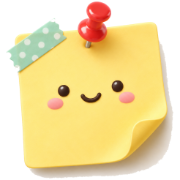
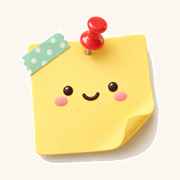
Deploy site to Cloudflare Pages; serve downloads from the website
- .github/workflows/site.yml: build site/ and deploy to Cloudflare Pages on push to main,
  on release publish, or manually. Each deploy copies the latest published release's exe
  into /download/ and points feed.json (version, url, sha256) at it, since the repo is private
- site-config downloadUrl comes from VITE_DOWNLOAD_URL (empty = coming soon)
- apple-touch-icon.png gets an opaque background (iOS turns transparency black)
- RELEASING.md describes the new flow and the one-time Cloudflare setup
- READMEs: download from the website

diff --git a/site/src/lib/site-config.ts b/site/src/lib/site-config.ts
@@ -16,8 +16,12 @@ export const siteConfig = {
   /** Custom work enquiries */
   contactEmail: "ailazytech@gmail.com",
 
-  /** TODO: GitHub Releases download URL (e.g. https://github.com/…/releases/latest) */
-  downloadUrl: "",
+  /**
+   * Download link for the latest pinpin.exe. Filled in at build time by .github/workflows/site.yml,
+   * which copies the latest published release into public/download/ (the repo is private, so
+   * GitHub release assets aren't publicly downloadable). Empty = the button shows “coming soon”.
+   */
+  downloadUrl: (import.meta.env.VITE_DOWNLOAD_URL as string | undefined) ?? "",
 
   /** TODO: source repository URL */
   githubUrl: "",

diff --git a/docs/RELEASING.md b/docs/RELEASING.md
@@ -43,25 +43,40 @@
    - `PinPin-Notes-0.2.0-x64.exe`
    - `PinPin-Notes-0.2.0-x64.exe.sha256`
 
-   打開草稿，把 `CHANGELOG.md` 這一版的內容貼進說明，確認後發佈。
-6. **線上更新**：把版本、執行檔網址、SHA-256（workflow 的 Summary 有）填進 `site/public/feed.json` 的 `app`；重要的修正設 `critical: true`。網站部署之後，開著自動檢查的使用者會在系統匣看到「更新到 vX」（格式和規則見 [UPDATES.md](UPDATES.md)）
-7. **官網**
-   - `site/src/lib/site-config.ts` 的 `downloadUrl` 指到最新版（可以用 `https://github.com/OWNER/pinpin-notes/releases/latest`，之後就不用每次改）
-   - 有新功能的話更新功能介紹、截圖（`promo/remotion` 的 `npm run screens`）、問答
-   - `cd site; vp build`，把 `site/dist/` 部署到 Pages
+   打開草稿，把 `CHANGELOG.md` 這一版的內容貼進說明。重要的修正要讓使用者自動更新的話，先在 `site/public/feed.json` 把 `app.critical` 設成 `true` 並推上 main。
+6. **發佈**：按下草稿的「Publish release」。這會觸發 `.github/workflows/site.yml`，自動：
+   - 把這版的 exe 放上官網：`https://pinpin.aiverything.app/download/PinPin-Notes-x64.exe`（下載按鈕）和 `…/download/PinPin-Notes-0.2.0-x64.exe`（線上更新用）
+   - 把 `feed.json` 的 `app.version`、`url`、`sha256` 換成這一版（`notes`、`critical`、廣告、貼紙包照 repo 裡的）
+   - 編譯網站、部署到 Cloudflare Pages
 
-## 官網部署
+   部署完，開著自動檢查的使用者會在系統匣看到「更新到 vX」（規則見 [UPDATES.md](UPDATES.md)）
+7. **官網內容**：有新功能的話更新功能介紹、截圖（`promo/remotion` 的 `npm run screens`）、問答，推上 main 就會自動部署
 
-`site/` 是純靜態網站：`vite.config.ts` 用相對路徑（`base: "./"`）、hash 路由（`#/custom`），所以 `site/dist/` 放在任何靜態主機的任何子路徑都能用，不需要伺服器改寫規則。
+## 官網部署（Cloudflare Pages）
+
+`site/` 是純靜態網站：`vite.config.ts` 用相對路徑（`base: "./"`）、hash 路由（`#/custom`），不需要伺服器改寫規則。網址 `https://pinpin.aiverything.app`（也寫在 `src/base.rs` 的 `SITE_URL`、`site-config.ts`、`index.html`）。
+
+`.github/workflows/site.yml` 在這些時候部署：推到 main 且改了 `site/`、Release 發佈、在 Actions 頁手動執行。每次部署都會把**最新已發佈 Release** 的 exe 放進 `site/public/download/`（repo 是私人的，GitHub Release 的檔案外人下載不到，所以由官網提供下載）。還沒有任何 Release 時，下載按鈕顯示「準備中」。
+
+第一次設定：
+
+1. Cloudflare → My Profile → API Tokens → Create Token，權限 **Account → Cloudflare Pages → Edit**
+2. GitHub repo → Settings → Secrets and variables → Actions，新增
+   - `CLOUDFLARE_API_TOKEN`：上一步的 token
+   - `CLOUDFLARE_ACCOUNT_ID`：Cloudflare 首頁右側的 Account ID
+3. 在 Actions 頁手動跑一次 **Site**（第一次會自動建立 Pages 專案 `pinpin-notes`）
+4. Cloudflare → Workers & Pages → pinpin-notes → Custom domains → 加 `pinpin.aiverything.app`（`aiverything.app` 的 DNS 在 Cloudflare 上會自動設好 CNAME）
+
+本機預覽：
 
 ```powershell
 cd site
-vp install
-vp build      # 輸出到 site/dist/
-vp preview    # 本機預覽
+pnpm install
+pnpm run build    # 輸出到 site/dist/（npm 會因 packageManager 設定報錯，要用 pnpm）
+pnpm exec vp preview
 ```
 
-部署：把 `site/dist/` 整個資料夾上傳到 Pages（GitHub Pages、Cloudflare Pages、Firebase Hosting 等都可以）。
+圖示：`public/` 的 `favicon.ico`（16～256 多尺寸）、`favicon-32.png`、`icon-192.png`、`icon-512.png`（PWA）、`apple-touch-icon.png`（iOS 主畫面，要不透明底，用 `scripts/apple-touch-icon.ps1` 從 icon-512 產生）、`og.png`（社群分享預覽 1200×630）。
 
 ## 熱修（hotfix）
 

diff --git a/README.ja.md b/README.ja.md
@@ -13,7 +13,7 @@ Windows デスクトップの付箋アプリ。画鋲、マスキングテープ
 - 6 言語：English、繁體中文、简体中文、日本語、한국어、العربية（右から左）
 - オープンソース（MIT）、データは自分のパソコンにだけ保存
 
-🌐 公式サイト：**[pinpin.aiverything.app](https://pinpin.aiverything.app)**　📦 ダウンロード：GitHub Releases（準備中）　📝 [更新履歴](CHANGELOG.md)
+🌐 公式サイト：**[pinpin.aiverything.app](https://pinpin.aiverything.app)**　📦 ダウンロード：[公式サイト](https://pinpin.aiverything.app)（準備中）　📝 [更新履歴](CHANGELOG.md)
 
 ## 機能
 

diff --git a/README.ar.md b/README.ar.md
@@ -15,7 +15,7 @@
 - ست لغات: English و繁體中文 و简体中文 و日本語 و한국어 والعربية (من اليمين إلى اليسار)
 - مفتوح المصدر (MIT)، وبياناتك تبقى على جهازك فقط
 
-🌐 الموقع: **[pinpin.aiverything.app](https://pinpin.aiverything.app)** · 📦 التنزيل: GitHub Releases (قريبًا) · 📝 [سجل التغييرات](CHANGELOG.md)
+🌐 الموقع: **[pinpin.aiverything.app](https://pinpin.aiverything.app)** · 📦 التنزيل: [من الموقع](https://pinpin.aiverything.app) (قريبًا) · 📝 [سجل التغييرات](CHANGELOG.md)
 
 ## الميزات
 

diff --git a/README.md b/README.md
@@ -13,7 +13,7 @@ A cozy sticky-notes app for the Windows desktop — pins, washi tape, stickers, 
 - Six languages: English, 繁體中文, 简体中文, 日本語, 한국어, العربية (right-to-left)
 - Open source (MIT); your data stays on your own computer
 
-🌐 Website: **[pinpin.aiverything.app](https://pinpin.aiverything.app)** · 📦 Download: GitHub Releases (coming soon) · 📝 [Changelog](CHANGELOG.md)
+🌐 Website: **[pinpin.aiverything.app](https://pinpin.aiverything.app)** · 📦 Download: [from the website](https://pinpin.aiverything.app) (coming soon) · 📝 [Changelog](CHANGELOG.md)
 
 ## Features
 

diff --git a/README.zh-CN.md b/README.zh-CN.md
@@ -13,7 +13,7 @@ Windows 桌面便利贴：图钉、纸胶带、贴纸拖来拖去，手写、透
 - 六种语言：English、繁中、简中、日本語、한국어、العربية（从右到左）
 - 开源（MIT），数据只保存在自己的电脑上
 
-🌐 官网：**[pinpin.aiverything.app](https://pinpin.aiverything.app)**　📦 下载：GitHub Releases（准备中）　📝 [更新日志](CHANGELOG.md)
+🌐 官网：**[pinpin.aiverything.app](https://pinpin.aiverything.app)**　📦 下载：[官网](https://pinpin.aiverything.app)（准备中）　📝 [更新日志](CHANGELOG.md)
 
 ## 功能
 

diff --git a/README.zh-TW.md b/README.zh-TW.md
@@ -13,7 +13,7 @@ Windows 桌面便利貼：圖釘、紙膠帶、貼紙拖來拖去，手寫、透
 - 六種語言：English、繁中、简中、日本語、한국어、العربية（由右到左）
 - 開源（MIT），資料只存在自己的電腦
 
-🌐 官網：**[pinpin.aiverything.app](https://pinpin.aiverything.app)**　📦 下載：GitHub Releases（準備中）　📝 [更新紀錄](CHANGELOG.md)
+🌐 官網：**[pinpin.aiverything.app](https://pinpin.aiverything.app)**　📦 下載：[官網](https://pinpin.aiverything.app)（準備中）　📝 [更新紀錄](CHANGELOG.md)
 
 ## 功能
 
